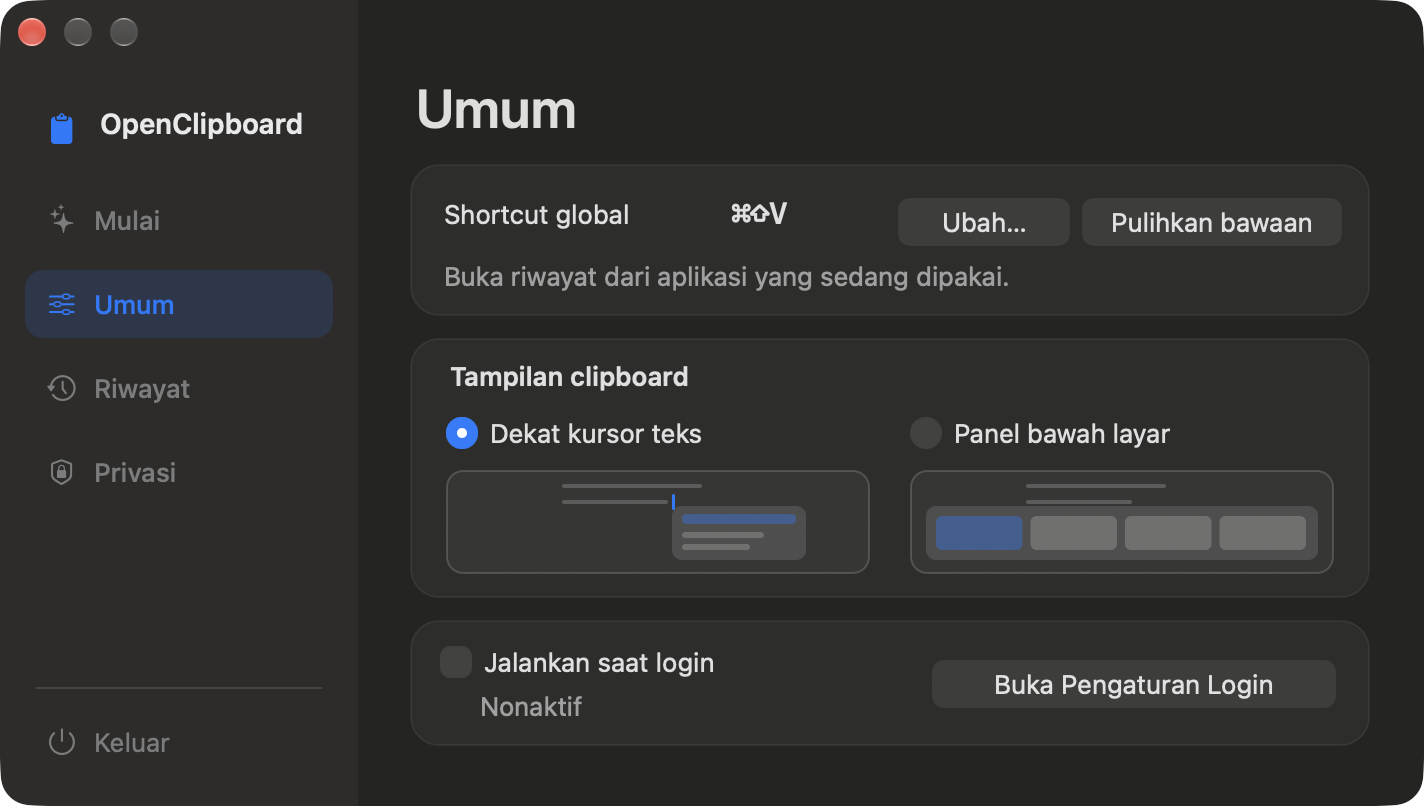
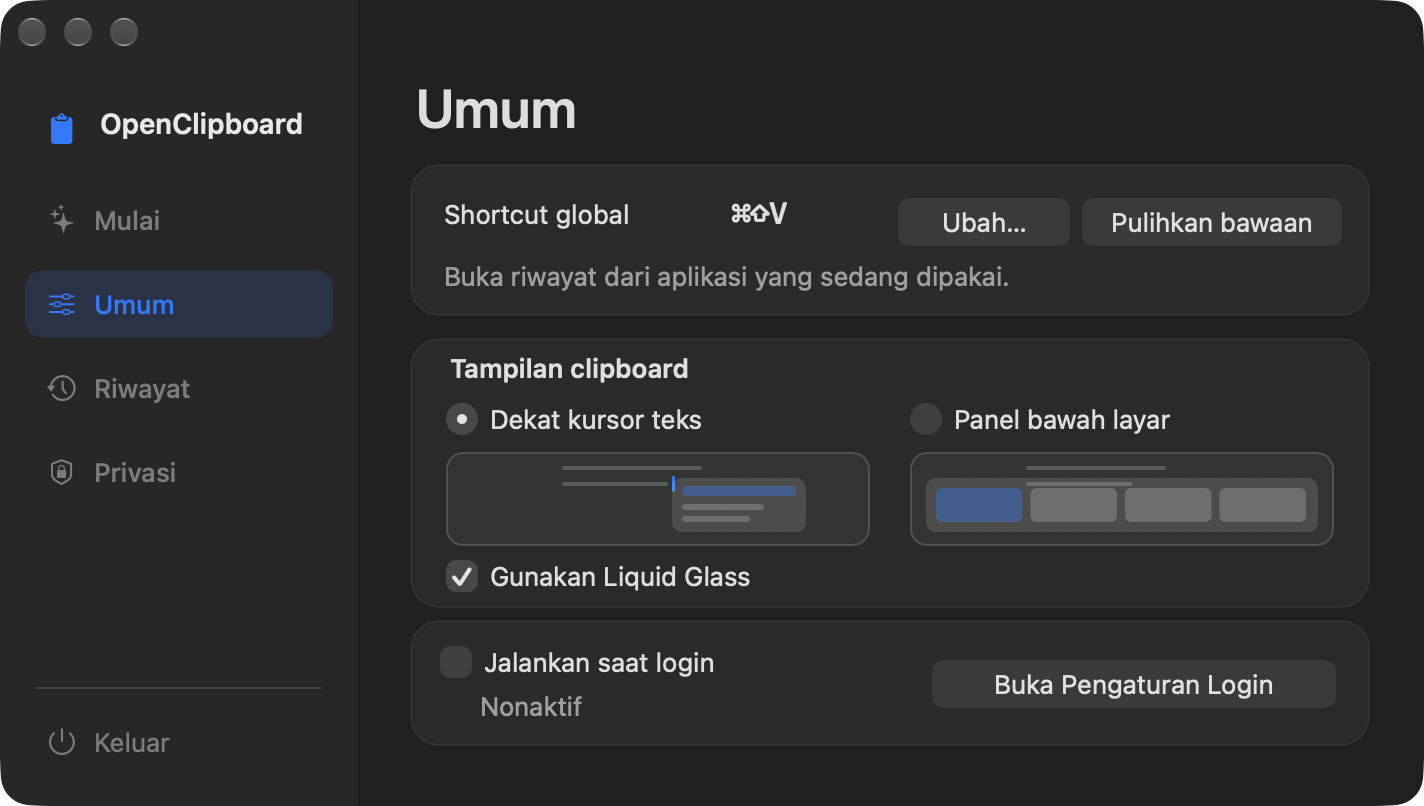
feat: add a Liquid Glass preference

Changed region(s): [[0.309, 0.4342, 0.618, 0.7444], [0.6489, 0.4963, 0.927, 0.7134], [0.0, 0.0, 0.0309, 0.062]]

diff --git a/native/App.m b/native/App.m
@@ -11,6 +11,7 @@ static NSString *const ShortcutKey = @"OCShortcutKey";
 static NSString *const ShortcutFlags = @"OCShortcutFlags";
 static NSString *const ShortcutLabel = @"OCShortcutLabel";
 static NSString *const BottomMode = @"OCBottomMode";
+NSString *const OCLiquidGlassPreference = @"OCLiquidGlass";
 static NSString *const HistoryLimit = @"OCHistoryLimit";
 static NSString *const HistoryRetentionDays = @"OCHistoryRetentionDays";
 static NSString *const HistoryStorageNote = @"Riwayat clipboard disimpan di Mac ini.";
@@ -55,6 +56,7 @@ void OCConfirmClearHistory(NSWindow *window, BOOL all, dispatch_block_t confirm)
 @property(nonatomic, strong) NSTextField *historyFeedback;
 @property(nonatomic, strong) NSButton *retryButton;
 @property(nonatomic, strong) NSTextField *historyLimit;
+@property(nonatomic, strong) NSView *historyRetentionContainer;
 @property(nonatomic, strong) NSPopUpButton *historyRetention;
 @property(nonatomic, strong) NSTextField *usage;
 @property(nonatomic, strong) NSTextField *clipboardPermission;
@@ -225,7 +227,7 @@ static void SettingsTitle(NSView *pane, NSString *title) {
     NSUserDefaults *defaults = NSUserDefaults.standardUserDefaults;
     [defaults registerDefaults:@{
         ShortcutKey: @9, ShortcutFlags: @12, ShortcutLabel: @"⌘⇧V",
-        BottomMode: @NO, @"OCDetectSensitive": @YES, HistoryLimit: @500, HistoryRetentionDays: @0,
+        BottomMode: @NO, OCLiquidGlassPreference: @YES, @"OCDetectSensitive": @YES, HistoryLimit: @500, HistoryRetentionDays: @0,
     }];
 
     NSString *testDirectory = [defaults stringForKey:@"OCTestDataDirectory"];
@@ -340,7 +342,11 @@ static void SettingsTitle(NSView *pane, NSString *title) {
     [self refreshLogin];
     [self refreshExcluded];
     [self requestUsage];
-    [NSApp activate];
+    if (@available(macOS 14.0, *)) {
+        [NSApp activate];
+    } else {
+        [NSApp activateIgnoringOtherApps:YES];
+    }
     [self.settings makeKeyAndOrderFront:nil];
 }
 
@@ -480,7 +486,7 @@ static void SettingsTitle(NSView *pane, NSString *title) {
 - (void)buildGeneral:(NSView *)view {
     SettingsTitle(view, @"Umum");
     SettingsGroup(view,223,76);
-    SettingsGroup(view,82,130);
+    SettingsGroup(view,77,135);
     SettingsGroup(view,8,63);
 
     PlaceLabel(view, @"Shortcut global", NSMakeRect(15,262,154,20), NO);
@@ -490,7 +496,7 @@ static void SettingsTitle(NSView *pane, NSString *title) {
     PlaceButton(view, @"Pulihkan bawaan", self, @selector(resetShortcut:), NSMakeRect(336,254,130,32));
     self.shortcutFeedback = PlaceLabel(view, ShortcutHelp, NSMakeRect(15,233,450,18), YES);
 
-    PlaceLabel(view, @"Tampilan clipboard", NSMakeRect(18,181,192,20), NO).font =
+    PlaceLabel(view, @"Tampilan clipboard", NSMakeRect(18,185,192,20), NO).font =
         [NSFont systemFontOfSize:13 weight:NSFontWeightSemibold];
     BOOL bottomMode = [NSUserDefaults.standardUserDefaults boolForKey:BottomMode];
     NSMutableArray<NSButton *> *modeButtons = [NSMutableArray array];
@@ -498,19 +504,32 @@ static void SettingsTitle(NSView *pane, NSString *title) {
     for (NSInteger mode = 0; mode < (NSInteger)titles.count; mode++) {
         CGFloat x = 18+mode*232;
         NSButton *button = [NSButton radioButtonWithTitle:titles[(NSUInteger)mode] target:self action:@selector(changeMode:)];
-        button.frame = NSMakeRect(x,154,212,21);
+        button.frame = NSMakeRect(x,161,212,21);
         button.tag = mode;
         button.state = mode == bottomMode ? NSControlStateValueOn : NSControlStateValueOff;
         [view addSubview:button];
         [modeButtons addObject:button];
 
-        OCModePreview *preview = [[OCModePreview alloc] initWithFrame:NSMakeRect(x,94,212,52)];
+        OCModePreview *preview = [[OCModePreview alloc] initWithFrame:NSMakeRect(x,108,212,47)];
         preview.bottom = mode == 1;
         preview.modeButton = button;
         [preview addGestureRecognizer:[[NSClickGestureRecognizer alloc] initWithTarget:preview action:@selector(selectMode:)]];
         [view addSubview:preview];
     }
     self.modeButtons = modeButtons;
+
+    NSButton *glass = [NSButton checkboxWithTitle:@"Gunakan Liquid Glass" target:self
+                                            action:@selector(toggleLiquidGlass:)];
+    glass.frame = NSMakeRect(18,82,210,22);
+    if (@available(macOS 26.0, *)) {
+        glass.state = [NSUserDefaults.standardUserDefaults boolForKey:OCLiquidGlassPreference]
+            ? NSControlStateValueOn : NSControlStateValueOff;
+        glass.toolTip = @"Berlaku saat riwayat dibuka lagi.";
+    } else {
+        glass.enabled = NO;
+        PlaceLabel(view, @"Perlu macOS 26 atau lebih baru.", NSMakeRect(233,83,227,20), YES);
+    }
+    [view addSubview:glass];
 
     self.loginButton = [NSButton checkboxWithTitle:@"Jalankan saat login" target:self action:@selector(toggleLogin:)];
     self.loginButton.frame = NSMakeRect(15,38,227,24);
@@ -542,16 +561,7 @@ static void SettingsTitle(NSView *pane, NSString *title) {
     PlaceButton(view, @"Simpan", self, @selector(saveLimit:), NSMakeRect(372,153,91,31));
 
     PlaceLabel(view, @"Durasi simpan klip biasa", NSMakeRect(15,120,235,21), NO);
-    self.historyRetention = OCGlassPopup(NSMakeRect(292,113,171,34),view);
-    for (NSArray *choice in @[@[@"Tanpa batas",@0],@[@"1 hari",@1],@[@"7 hari",@7],
-            @[@"30 hari",@30],@[@"90 hari",@90],@[@"1 tahun",@365]]) {
-        [self.historyRetention addItemWithTitle:choice[0]];
-        self.historyRetention.lastItem.tag = [choice[1] integerValue];
-    }
-    [self.historyRetention selectItemWithTag:[NSUserDefaults.standardUserDefaults integerForKey:HistoryRetentionDays]];
-    self.historyRetention.target = self;
-    self.historyRetention.action = @selector(changeRetention:);
-    [self.historyRetention setAccessibilityLabel:@"Durasi simpan klip biasa"];
+    [self buildHistoryRetention:view];
     PlaceLabel(view, @"Klip sematan dan klip di koleksi tetap disimpan.", NSMakeRect(15,94,448,18), YES);
 
     self.usage = PlaceLabel(view, @"", NSMakeRect(15,72,448,19), YES);
@@ -701,6 +711,28 @@ static void SettingsTitle(NSView *pane, NSString *title) {
     for (NSButton *button in self.modeButtons)
         button.state = button == sender ? NSControlStateValueOn : NSControlStateValueOff;
     [NSUserDefaults.standardUserDefaults setBool:sender.tag == 1 forKey:BottomMode];
+}
+
+- (void)toggleLiquidGlass:(NSButton *)sender {
+    [NSUserDefaults.standardUserDefaults setBool:sender.state == NSControlStateValueOn
+                                         forKey:OCLiquidGlassPreference];
+    [self buildHistoryRetention:self.historyRetentionContainer.superview];
+}
+
+- (void)buildHistoryRetention:(NSView *)view {
+    [self.historyRetentionContainer removeFromSuperview];
+    self.historyRetentionContainer = [[NSView alloc] initWithFrame:NSMakeRect(292,113,171,34)];
+    [view addSubview:self.historyRetentionContainer];
+    self.historyRetention = OCGlassPopup(self.historyRetentionContainer.bounds, self.historyRetentionContainer);
+    for (NSArray *choice in @[@[@"Tanpa batas",@0],@[@"1 hari",@1],@[@"7 hari",@7],
+            @[@"30 hari",@30],@[@"90 hari",@90],@[@"1 tahun",@365]]) {
+        [self.historyRetention addItemWithTitle:choice[0]];
+        self.historyRetention.lastItem.tag = [choice[1] integerValue];
+    }
+    [self.historyRetention selectItemWithTag:[NSUserDefaults.standardUserDefaults integerForKey:HistoryRetentionDays]];
+    self.historyRetention.target = self;
+    self.historyRetention.action = @selector(changeRetention:);
+    [self.historyRetention setAccessibilityLabel:@"Durasi simpan klip biasa"];
 }
 
 - (void)refreshLogin {

diff --git a/native/Picker.m b/native/Picker.m
@@ -150,39 +150,36 @@ static NSPanel *MakePanel(NSRect rect, NSString *title) {
         NSRect bounds = NSMakeRect(0,0,NSWidth(rect),NSHeight(rect));
         NSView *root = [[NSView alloc] initWithFrame:bounds];
 
-        NSRect materialFrame = bounds;
-        CGFloat materialRadius = radius;
+        NSView *content = [[NSView alloc] initWithFrame:bounds];
+        content.autoresizingMask = NSViewWidthSizable | NSViewHeightSizable;
+        NSView *surface = content;
         if (@available(macOS 26.0, *)) {
-            // Sample the windows behind the clear glass treatment.
-            materialFrame = NSInsetRect(bounds,2,2);
-            materialRadius -= 2;
+            if ([NSUserDefaults.standardUserDefaults boolForKey:OCLiquidGlassPreference]) {
+                NSGlassEffectView *glass = [[NSGlassEffectView alloc] initWithFrame:bounds];
+                glass.autoresizingMask = NSViewWidthSizable | NSViewHeightSizable;
+                glass.style = NSGlassEffectViewStyleClear;
+                glass.cornerRadius = radius;
+#if __MAC_OS_X_VERSION_MAX_ALLOWED >= 270000
+                if (@available(macOS 27.0, *)) {
+                    glass.effectIsInteractive = YES;
+                }
+#endif
+                glass.contentView = content;
+                surface = glass;
+            }
         }
 
+        // Inset the backdrop behind clear glass, which draws its own edges.
+        CGFloat inset = surface == content ? 0 : 2;
+        NSRect materialFrame = NSInsetRect(bounds,inset,inset);
         NSVisualEffectView *backdrop = [[NSVisualEffectView alloc] initWithFrame:materialFrame];
         backdrop.autoresizingMask = NSViewWidthSizable | NSViewHeightSizable;
         backdrop.blendingMode = NSVisualEffectBlendingModeBehindWindow;
         backdrop.material = NSVisualEffectMaterialPopover;
         backdrop.state = NSVisualEffectStateActive;
-        backdrop.maskImage = GlassMask(materialFrame.size, materialRadius);
+        backdrop.maskImage = GlassMask(materialFrame.size, radius-inset);
         [root addSubview:backdrop];
-
-        NSView *content = [[NSView alloc] initWithFrame:bounds];
-        content.autoresizingMask = NSViewWidthSizable | NSViewHeightSizable;
-        if (@available(macOS 26.0, *)) {
-            NSGlassEffectView *glass = [[NSGlassEffectView alloc] initWithFrame:bounds];
-            glass.autoresizingMask = NSViewWidthSizable | NSViewHeightSizable;
-            glass.style = NSGlassEffectViewStyleClear;
-            glass.cornerRadius = radius;
-#if __MAC_OS_X_VERSION_MAX_ALLOWED >= 270000
-            if (@available(macOS 27.0, *)) {
-                glass.effectIsInteractive = YES;
-            }
-#endif
-            glass.contentView = content;
-            [root addSubview:glass];
-        } else {
-            [root addSubview:content];
-        }
+        [root addSubview:surface];
         panel.contentView = root;
         panel.surfaceContent = content;
     }

diff --git a/native/Toolbar.m b/native/Toolbar.m
@@ -39,20 +39,25 @@ NSView *OCToolbarSurface(NSRect frame, NSView *parent) {
 }
 
 NSPopUpButton *OCGlassPopup(NSRect frame, NSView *parent) {
-    NSView *content;
+    NSView *surface = nil;
+    NSView *content = [[NSView alloc] initWithFrame:NSMakeRect(0,0,NSWidth(frame),NSHeight(frame))];
     if (@available(macOS 26.0, *)) {
-        NSGlassEffectView *glass = [[NSGlassEffectView alloc] initWithFrame:frame];
-        glass.cornerRadius = OCToolbarRadius;
+        if ([NSUserDefaults.standardUserDefaults boolForKey:OCLiquidGlassPreference]) {
+            NSGlassEffectView *glass = [[NSGlassEffectView alloc] initWithFrame:frame];
+            glass.cornerRadius = OCToolbarRadius;
 #if __MAC_OS_X_VERSION_MAX_ALLOWED >= 270000
-        if (@available(macOS 27.0, *)) {
-            glass.effectIsInteractive = YES;
-        }
+            if (@available(macOS 27.0, *)) {
+                glass.effectIsInteractive = YES;
+            }
 #endif
-        content = [[NSView alloc] initWithFrame:glass.bounds];
-        glass.contentView = content;
-        [parent addSubview:glass];
-    } else {
-        content = OCToolbarSurface(frame, parent);
+            glass.contentView = content;
+            [parent addSubview:glass];
+            surface = glass;
+        }
+    }
+    if (!surface) {
+        surface = OCToolbarSurface(frame, parent);
+        [surface addSubview:content];
     }
 
     NSPopUpButton *button = [[NSPopUpButton alloc] initWithFrame:NSInsetRect(content.bounds,10,0) pullsDown:NO];

diff --git a/native/Native.h b/native/Native.h
@@ -31,6 +31,8 @@ static inline BOOL OCPerformEditShortcut(NSEvent *event, NSResponder *target) {
     return [NSApp sendAction:action to:target from:nil];
 }
 
+extern NSString *const OCLiquidGlassPreference;
+
 BOOL OCSend(NSDictionary *command);
 void OCConfirmClearHistory(NSWindow *window, BOOL all, dispatch_block_t confirm);
 BOOL OCGetCaret(pid_t pid, NSRect *result);

diff --git a/README.md b/README.md
@@ -20,7 +20,7 @@ Rilis ini belum dinotariskan oleh Apple. Jika macOS memblokir saat pertama dibuk
 
 ## Dua tampilan riwayat
 
-OpenClipboard memakai Liquid Glass di macOS 26 ke atas, seperti pada screenshot di bawah. Di macOS 13, 14, dan 15, panel memakai latar buram bawaan macOS.
+Di macOS 26 ke atas, Liquid Glass aktif secara bawaan seperti pada screenshot di bawah. Matikan **Gunakan Liquid Glass** di tab **Umum** untuk memakai latar buram. Di macOS 13, 14, dan 15, latar buram otomatis dipakai.
 
 Popup muncul di dekat kursor teks jika izin Accessibility aktif. Pilih koleksi dari sisi kiri. Klip gambar di daftar menampilkan miniatur dan ukuran dalam piksel.
 
@@ -54,10 +54,10 @@ OpenClipboard menyimpan gambar yang tersedia di clipboard sebagai PNG atau TIFF,
 
 ## Pengaturan dan privasi
 
-Di tab **Umum**, kamu bisa mengganti pintasan global, memilih tampilan riwayat, dan mengaktifkan **Jalankan saat login**.
+Di tab **Umum**, kamu bisa mengganti pintasan global, memilih tampilan riwayat, mengatur Liquid Glass, dan mengaktifkan **Jalankan saat login**.
 
 <p align="center">
-  <img src="docs/screenshots/pengaturan.png" alt="Tab Umum dengan pengaturan pintasan, tampilan riwayat, dan jalankan saat login" width="712">
+  <img src="docs/screenshots/pengaturan.png" alt="Tab Umum dengan pengaturan pintasan, tampilan riwayat, Liquid Glass, dan jalankan saat login" width="712">
 </p>
 
 Riwayat disimpan secara lokal di `~/Library/Application Support/OpenClipboard/history.sqlite3`. Dari tab **Riwayat**, kamu bisa mengatur batas jumlah klip biasa dan berapa lama klip disimpan. Klip yang disematkan atau masuk koleksi dikecualikan dari batas riwayat biasa.
